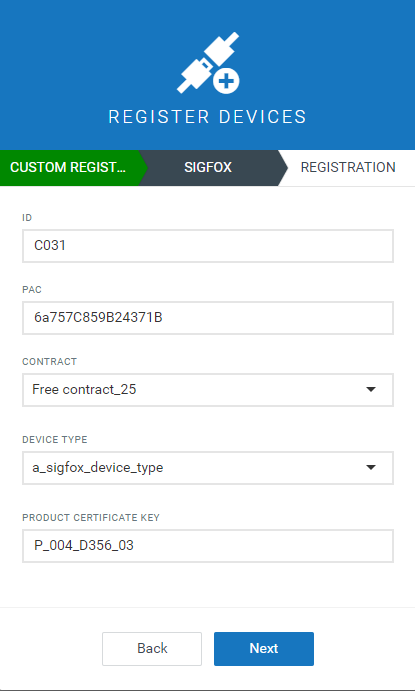
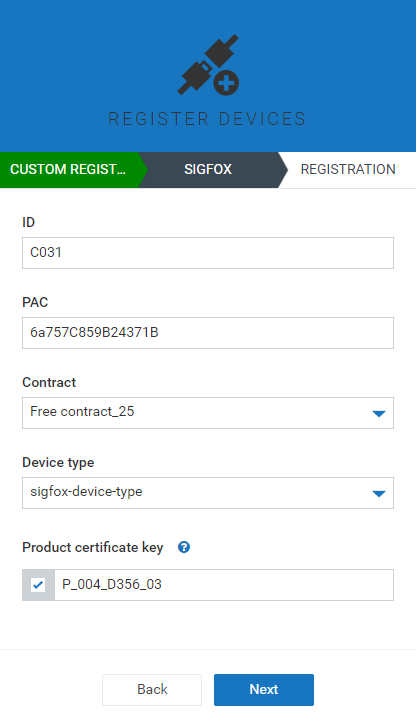
MTM-25887 Updated image and added info regarding the certificate checkbox.

diff --git a/content/users-guide/optional-services-bundle/sigfox.md b/content/users-guide/optional-services-bundle/sigfox.md
@@ -217,7 +217,7 @@ In the next window, fill in the required information:
 - **PAC:** Porting authorization code for your device. The value must be a hexadecimal number.
 - **Contract:** Choose your desired contract.
 - **Device protocol:** Select your desired device protocol from the drop-down list.
-- **Product certificate key:** This key can be located in *https://partners.sigfox.com/*. Navigate to your device and copy the certificate key.
+- **Product certificate key:** This key can be located in *https://partners.sigfox.com/*. Navigate to your device and copy the certificate key. If the checkbox is not selected and no product certificate key is specified, the device will be considered a prototype.
 
 **Info:** The term "Device type" is used both by Sigfox and Cumulocity, but with different meaning. In Sigfox, a device type specifies how to route data from devices. In Cumulocity, a device type describes the data that is sent by devices of a particular type.
 
